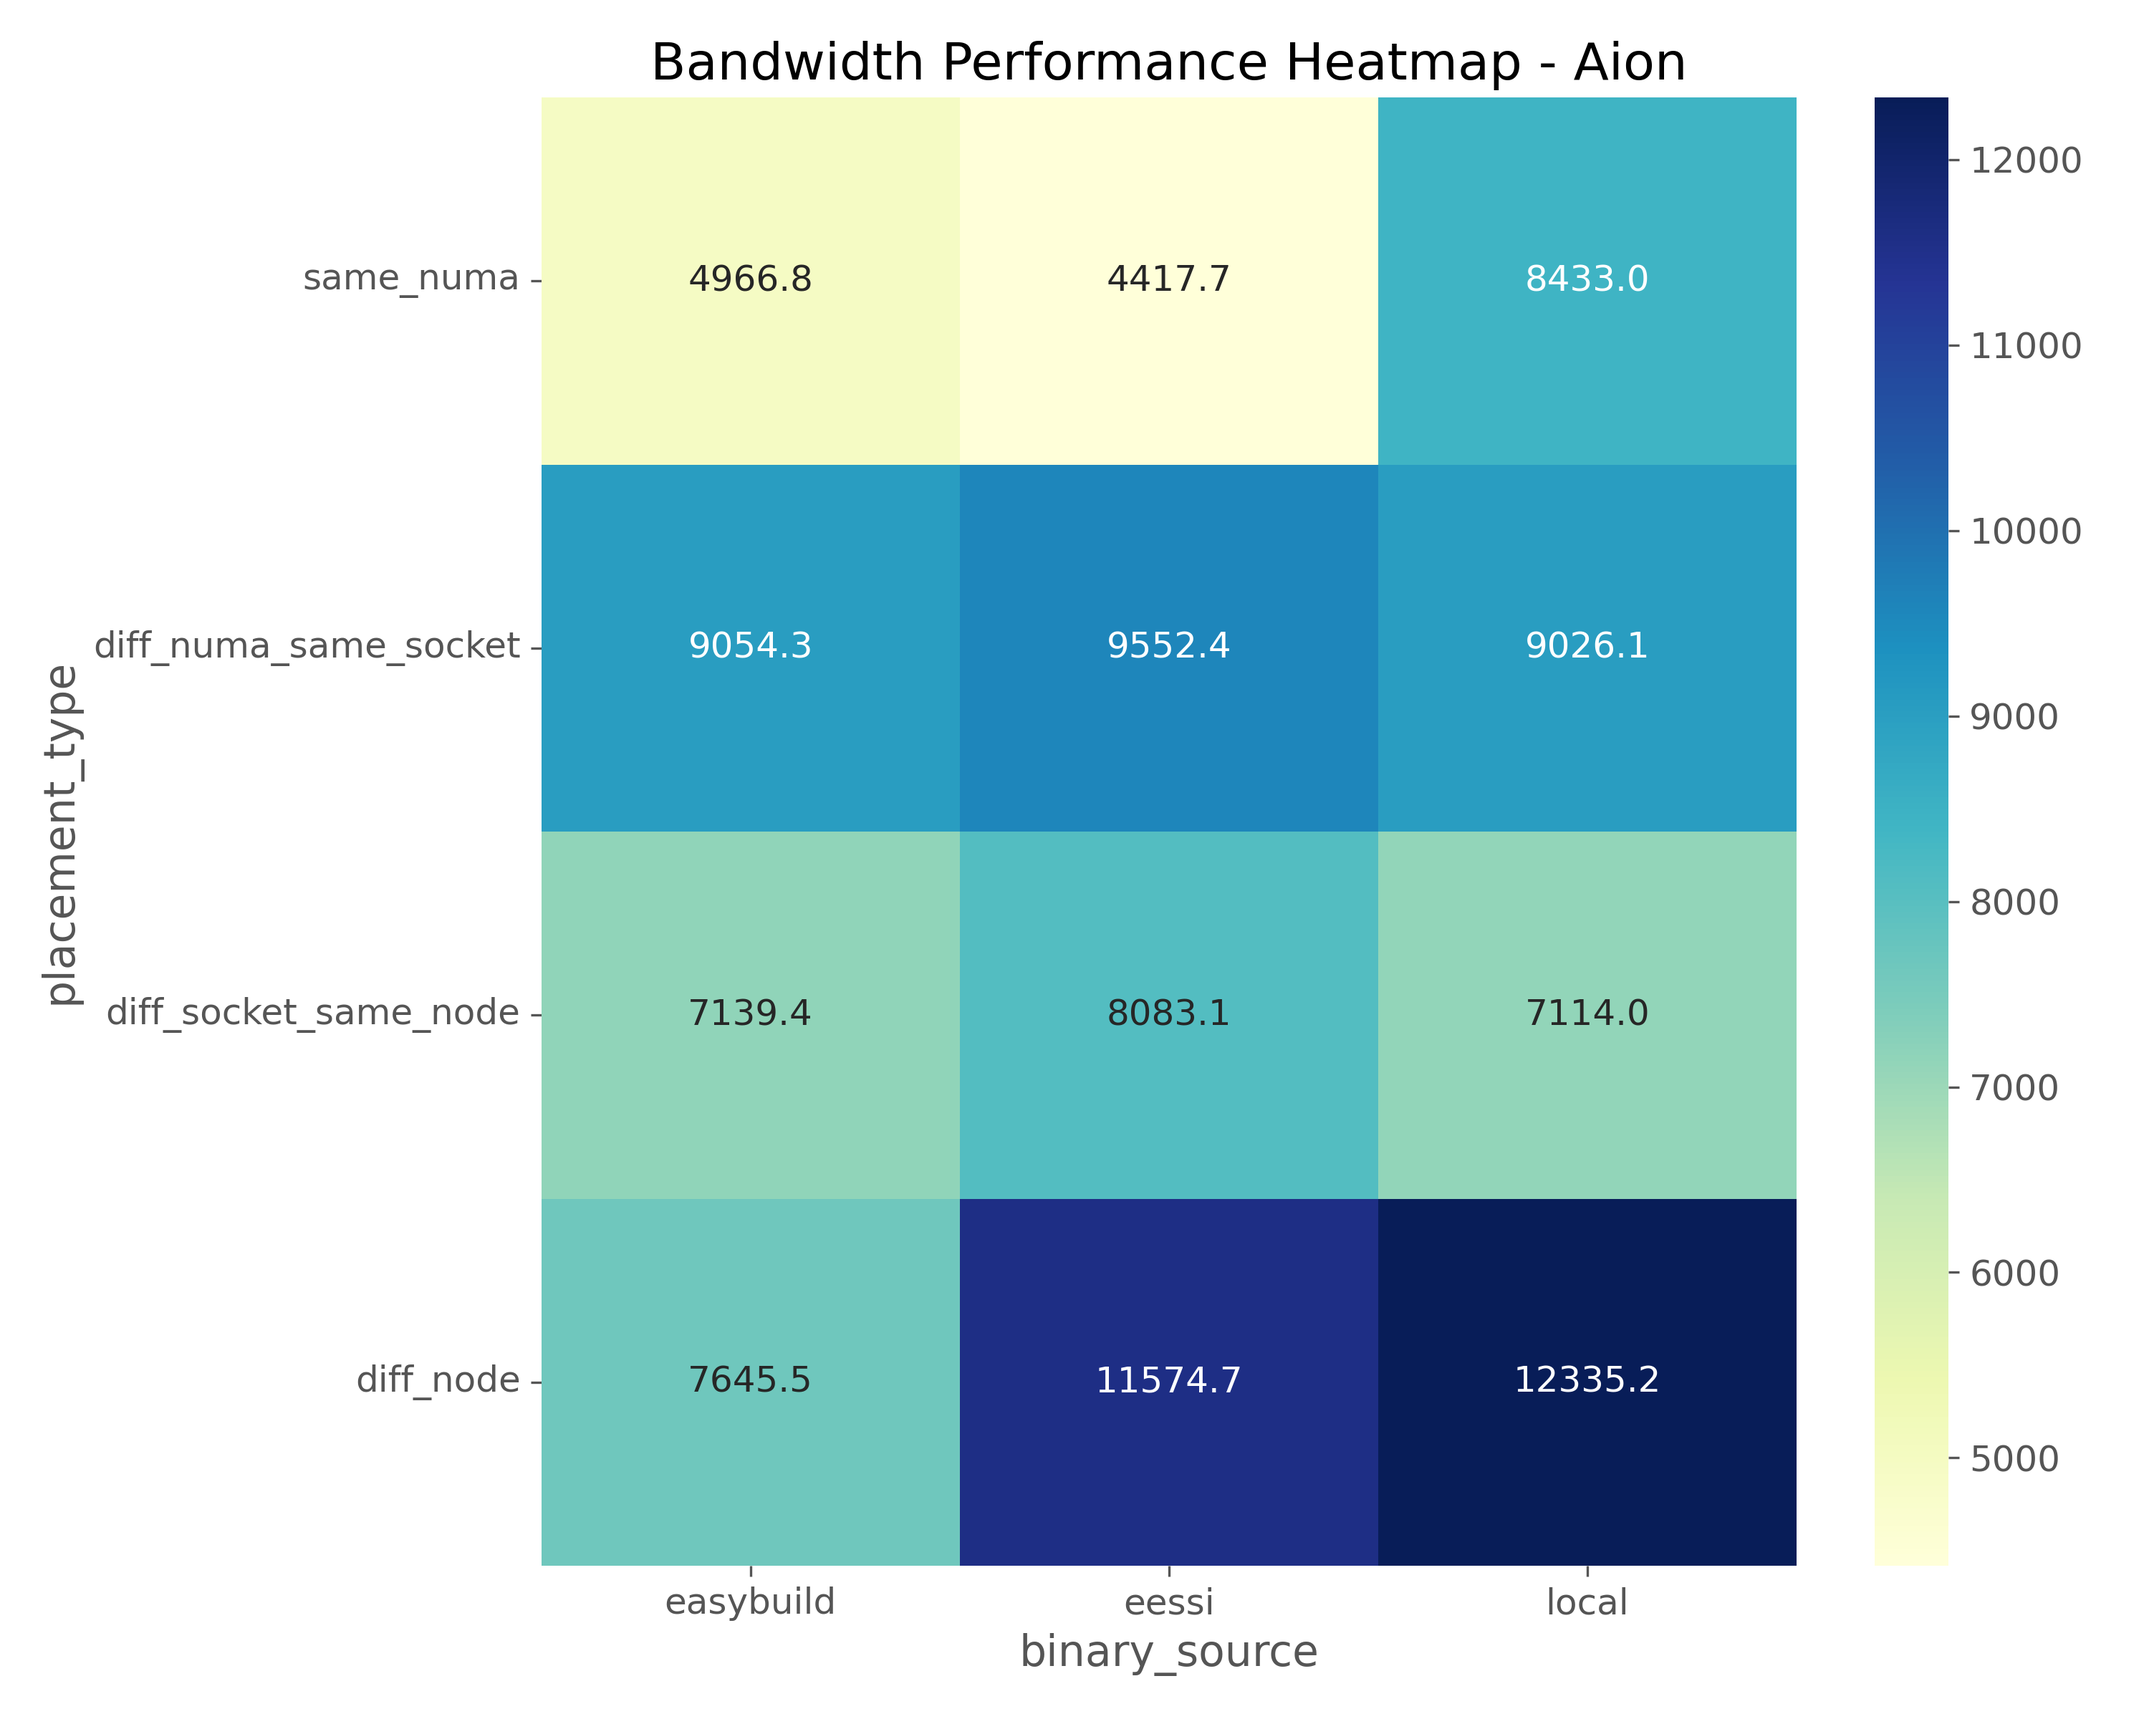
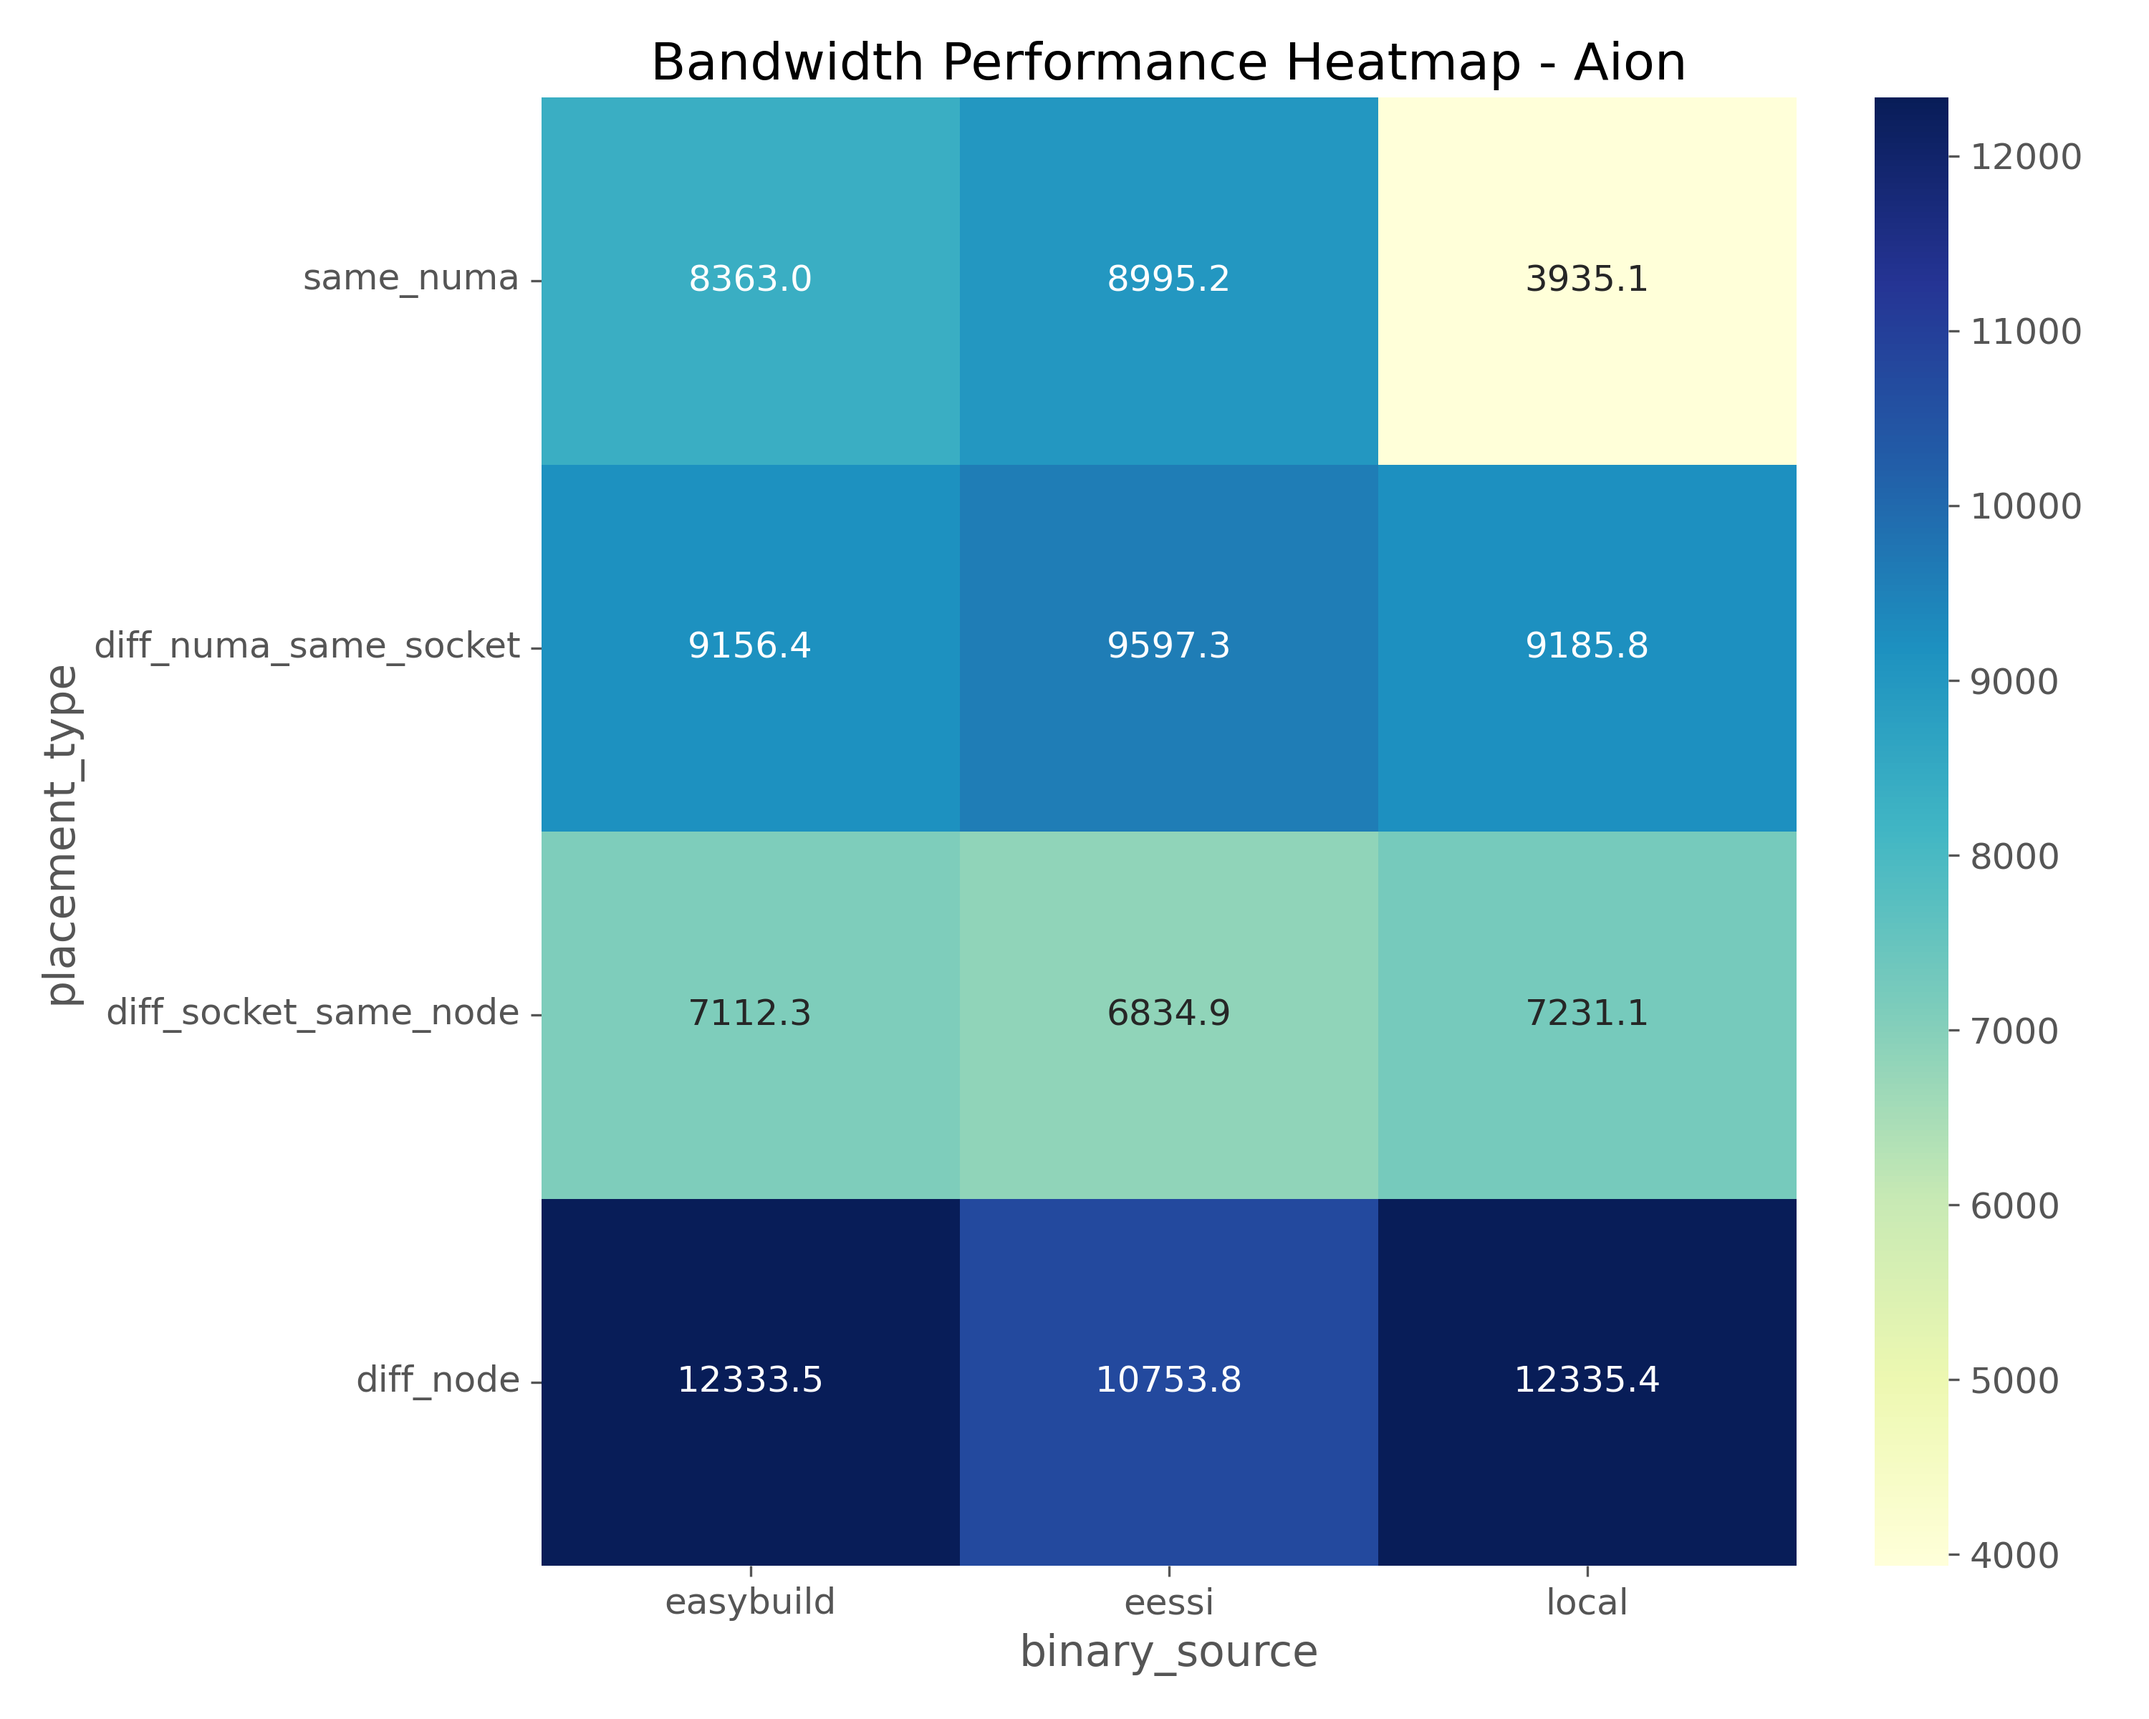
update the reference value

diff --git a/tests/config.py b/tests/config.py
@@ -3,48 +3,48 @@ REFERENCE_VALUES = {
     'aion': {
         'latency': {
             'eessi': {
-                'default': (0.21, -0.2, 0.2, 'us'),  # Updated from 0.21 to 0.18
-                'same_numa': (0.21, -0.2, 0.2, 'us'),
-                'diff_numa_same_socket': (0.21, -0.2, 0.2, 'us'),
-                'diff_socket_same_node': (0.21, -0.2, 0.2, 'us'),
-                'diff_node': (4.0, -0.2, 0.2, 'us')
+                'default': (0.21, -0.05, 0.05, 'us'),  # Updated from 0.21 to 0.18
+                'same_numa': (0.21, -0.05, 0.05, 'us'),
+                'diff_numa_same_socket': (0.21, -0.05, 0.05, 'us'),
+                'diff_socket_same_node': (0.21, -0.05, 0.05, 'us'),
+                'diff_node': (4.1, -0.05, 0.05, 'us')
             },
             'easybuild': {
-                'default': (0.21, -0.2, 0.2, 'us'),  # Updated from 0.21 to 0.18
-                'same_numa': (0.21, -0.2, 0.2, 'us'),
-                'diff_numa_same_socket': (0.21, -0.2, 0.2, 'us'),
-                'diff_socket_same_node': (0.21, -0.2, 0.2, 'us'),
-                'diff_node': (4.0, -0.2, 0.2, 'us')
+                'default': (0.21, -0.05, 0.05, 'us'),  # Updated from 0.21 to 0.18
+                'same_numa': (0.21, -0.05, 0.05, 'us'),
+                'diff_numa_same_socket': (0.21, -0.05, 0.05, 'us'),
+                'diff_socket_same_node': (0.21, -0.05, 0.05, 'us'),
+                'diff_node': (4.1, -0.05, 0.05, 'us')
             },
             'local': {
-                'default': (0.21, -0.2, 0.2, 'us'),  # Updated from 0.21 to 0.18
-                'same_numa': (0.21, -0.2, 0.2, 'us'),
-                'diff_numa_same_socket': (0.21, -0.2, 0.2, 'us'),
-                'diff_socket_same_node': (0.21, -0.2, 0.2, 'us'),
-                'diff_node': (4.0, -0.2, 0.2, 'us')
+                'default': (0.21, -0.05, 0.05, 'us'),  # Updated from 0.21 to 0.18
+                'same_numa': (0.21, -0.05, 0.05, 'us'),
+                'diff_numa_same_socket': (0.21, -0.05, 0.05, 'us'),
+                'diff_socket_same_node': (0.21, -0.05, 0.05, 'us'),
+                'diff_node': (4.1, -0.05, 0.05, 'us')
             },            
         },
         'bandwidth': {
             'eessi': {
-                'default': (7200, -0.2, 0.2, 'MB/s'),  # Updated default value
-                'same_numa': (6800, -0.2, 0.2, 'MB/s'),
-                'diff_numa_same_socket': (9700, -0.2, 0.2, 'MB/s'),
-                'diff_socket_same_node': (8000, -0.2, 0.2, 'MB/s'),
-                'diff_node': (7400, -0.2, 0.2, 'MB/s')
+                'default': (7200, -0.05, 0.05, 'MB/s'),  # Updated default value
+                'same_numa': (9000, -0.05, 0.05, 'MB/s'),
+                'diff_numa_same_socket': (9600, -0.05, 0.05, 'MB/s'),
+                'diff_socket_same_node': (8000, -0.05, 0.05, 'MB/s'),
+                'diff_node': (12000, -0.05, 0.05, 'MB/s')
             },
             'easybuild': {                
-                'default': (2500, -0.2, 0.2, 'MB/s'),  # Updated default value
-                'same_numa': (8200, -0.2, 0.2, 'MB/s'),
-                'diff_numa_same_socket': (9000, -0.2, 0.2, 'MB/s'),
-                'diff_socket_same_node': (7000, -0.2, 0.2, 'MB/s'),
-                'diff_node': (6200, -0.2, 0.2, 'MB/s')
+                'default': (2500, -0.05, 0.05, 'MB/s'),  # Updated default value
+                'same_numa': (8200, -0.05, 0.05, 'MB/s'),
+                'diff_numa_same_socket': (9000, -0.05, 0.05, 'MB/s'),
+                'diff_socket_same_node': (7000, -0.05, 0.05, 'MB/s'),
+                'diff_node': (12000, -0.05, 0.05, 'MB/s')
             },
             'local': {                
-                'default': (2800, -0.2, 0.2, 'MB/s'),  # Updated default value
-                'same_numa': (8000, -0.2, 0.2, 'MB/s'),
-                'diff_numa_same_socket': (9000, -0.2, 0.2, 'MB/s'),
-                'diff_socket_same_node': (7100, -0.2, 0.2, 'MB/s'),
-                'diff_node': (12000, -0.2, 0.2, 'MB/s')
+                'default': (2800, -0.05, 0.05, 'MB/s'),  # Updated default value
+                'same_numa': (8500, -0.05, 0.05, 'MB/s'),
+                'diff_numa_same_socket': (9000, -0.05, 0.05, 'MB/s'),
+                'diff_socket_same_node': (7200, -0.05, 0.05, 'MB/s'),
+                'diff_node': (12000, -0.05, 0.05, 'MB/s')
             },
         }
     },
@@ -52,48 +52,48 @@ REFERENCE_VALUES = {
     'iris': {
         'latency': {
             'eessi': {
-                'default': (0.21, -0.2, 0.2, 'us'),  # Updated from 0.21 to 0.18
-                'same_numa': (0.75, -0.2, 0.2, 'us'),
-                'diff_numa_same_socket': (0.26, -0.2, 0.2, 'us'),
-                'diff_socket_same_node': (0.3, -0.22, 0.2, 'us'),
-                'diff_node': (5.25, -0.2, 0.2, 'us')
+                'default': (0.21, -0.05, 0.05, 'us'),  # Updated from 0.21 to 0.18
+                'same_numa': (0.36, -0.05, 0.05, 'us'),
+                'diff_numa_same_socket': (0.2, -0.05, 0.05, 'us'),
+                'diff_socket_same_node': (0.21, -0.05, 0.05, 'us'),
+                'diff_node': (3.23, -0.05, 0.05, 'us')
             },
             'easybuild': {
-                'default': (0.21, -0.2, 0.2, 'us'),  # Updated from 0.21 to 0.18
-                'same_numa': (0.72, -0.2, 0.2, 'us'),
-                'diff_numa_same_socket': (0.26, -0.2, 0.2, 'us'),
-                'diff_socket_same_node': (0.33, -0.2, 0.2, 'us'),
-                'diff_node': (5.25, -0.2, 0.2, 'us')
+                'default': (0.21, -0.05, 0.05, 'us'),  # Updated from 0.21 to 0.18
+                'same_numa': (0.2, -0.05, 0.05, 'us'),
+                'diff_numa_same_socket': (0.19, -0.05, 0.05, 'us'),
+                'diff_socket_same_node': (0.21, -0.05, 0.05, 'us'),
+                'diff_node': (3.26, -0.05, 0.05, 'us')
             },
             'local': {
-                'default': (0.21, -0.2, 0.2, 'us'),  # Updated from 0.21 to 0.18
-                'same_numa': (0.71, -0.2, 0.2, 'us'),
-                'diff_numa_same_socket': (0.26, -0.2, 0.2, 'us'),
-                'diff_socket_same_node': (0.34, -0.2, 0.2, 'us'),
-                'diff_node': (5.33, -0.2, 0.2, 'us')
+                'default': (0.21, -0.05, 0.05, 'us'),  # Updated from 0.21 to 0.18
+                'same_numa': (0.21, -0.05, 0.05, 'us'),
+                'diff_numa_same_socket': (0.19, -0.05, 0.05, 'us'),
+                'diff_socket_same_node': (0.21, -0.05, 0.05, 'us'),
+                'diff_node': (3.1, -0.05, 0.05, 'us')
             },            
         },
         'bandwidth': {
             'eessi': {
-                'default': (7200, -0.2, 0.2, 'MB/s'),  # Updated default value
-                'same_numa': (900, -0.2, 0.2, 'MB/s'),
-                'diff_numa_same_socket': (2200, -0.2, 0.2, 'MB/s'),
-                'diff_socket_same_node': (4200, -0.2, 0.2, 'MB/s'),
-                'diff_node': (5000, -0.2, 0.2, 'MB/s')
+                'default': (7200, -0.05, 0.05, 'MB/s'),  # Updated default value
+                'same_numa': (4400, -0.05, 0.05, 'MB/s'),
+                'diff_numa_same_socket': (2500, -0.05, 0.05, 'MB/s'),
+                'diff_socket_same_node': (4200, -0.05, 0.05, 'MB/s'),
+                'diff_node': (7300, -0.05, 0.05, 'MB/s')
             },
             'easybuild': {                
-                'default': (2500, -0.2, 0.2, 'MB/s'),  # Updated default value
-                'same_numa': (1800, -0.2, 0.2, 'MB/s'),
-                'diff_numa_same_socket': (2400, -0.2, 0.2, 'MB/s'),
-                'diff_socket_same_node': (4300, -0.2, 0.2, 'MB/s'),
-                'diff_node': (6500, -0.2, 0.2, 'MB/s')
+                'default': (2500, -0.05, 0.05, 'MB/s'),  # Updated default value
+                'same_numa': (4400, -0.05, 0.05, 'MB/s'),
+                'diff_numa_same_socket': (2400, -0.05, 0.05, 'MB/s'),
+                'diff_socket_same_node': (1600, -0.05, 0.05, 'MB/s'),
+                'diff_node': (6200, -0.05, 0.05, 'MB/s')
             },
             'local': {                
-                'default': (2800, -0.2, 0.2, 'MB/s'),  # Updated default value
-                'same_numa': (1850, -0.2, 0.2, 'MB/s'),
-                'diff_numa_same_socket': (2800, -0.2, 0.2, 'MB/s'),
-                'diff_socket_same_node': (4000, -0.2, 0.2, 'MB/s'),
-                'diff_node': (9500, -0.2, 0.2, 'MB/s')
+                'default': (2800, -0.05, 0.05, 'MB/s'),  # Updated default value
+                'same_numa': (4500, -0.05, 0.05, 'MB/s'),
+                'diff_numa_same_socket': (2800, -0.05, 0.05, 'MB/s'),
+                'diff_socket_same_node': (4200, -0.05, 0.05, 'MB/s'),
+                'diff_node': (12000, -0.05, 0.05, 'MB/s')
             },
         }
     }
